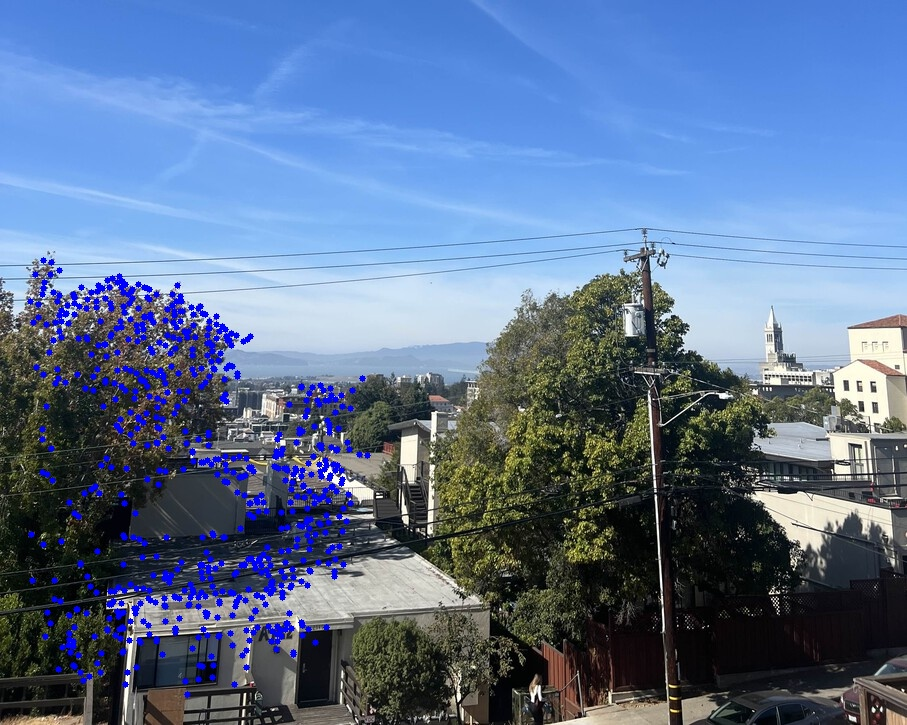
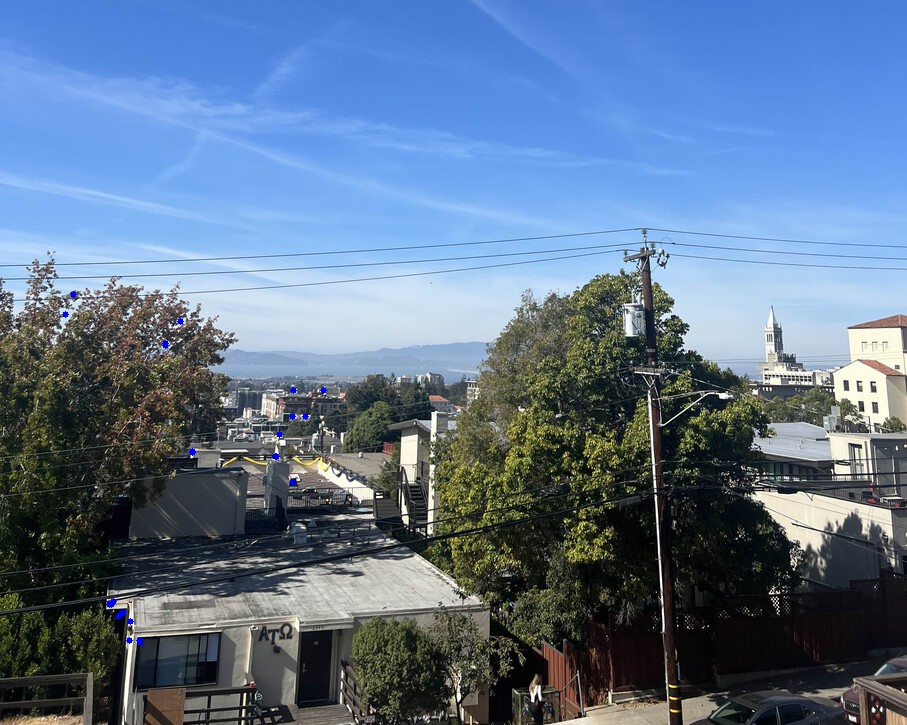
finished the project

diff --git a/4/index.html b/4/index.html
@@ -8,10 +8,12 @@
 </head>
 <body>
     <div class="container">
-        <h1>Project 4: Image Warping and Mosaicing</h1>
+        <h1>Project 4: [Auto] Stitching Photo Mosaics</h1>
         <p>This project focuses on image warping and mosaicing by creating a mosaic of two or more photographs through registration, projective warping, resampling, and compositing. The following steps were followed to achieve this:</p>
 
-        <h2>Part 1: Shooting and Digitizing Pictures</h2>
+        <h2>Part 4A: Image Warping and Mosaicing</h2>
+
+        <h3>Part 1: Shooting and Digitizing Pictures</h3>
         <p>I captured multiple images of Roaster's Coffee Pack, the outside of my house, and my desk, ensuring significant overlap between the images to facilitate mosaicing. Below are some of the original images used for this project:</p>
         <div class="gallery">
             <div class="image-card">
@@ -58,7 +60,7 @@
             </div>
         </div>
 
-        <h2>Part 2: Recovering Homographies</h2>
+        <h3>Part 2: Recovering Homographies</h3>
         <p>Next, I selected corresponding points between the two images. Using these points, I computed the homography matrix to warp one image onto the other. Below are the images with the corresponding points highlighted:</p>
         <div class="gallery">
             <div class="image-card">
@@ -75,7 +77,7 @@
             </div>
         </div>
 
-        <h2>Part 3 & 4: Warping and Rectification the Images</h2>
+        <h3>Part 3 & 4: Warping and Rectification the Images</h3>
         <p>Using the homography matrix, I warped both images to align them.
             Before blending, I performed rectification by transforming one of the images to ensure alignment. The images below show the warping and rectification process:</p>
         <div class="gallery">
@@ -109,7 +111,7 @@
             </div>
         </div>
 
-        <h2>Part 5: Blending into a Mosaic</h2>
+        <h3>Part 5: Blending into a Mosaic</h3>
         <p>Finally, I blended the images together using feathering and weighted averaging to produce the mosaic. The result is displayed below:</p>
         <div class="gallery">
             <div class="image-card">
@@ -215,9 +217,170 @@
                 </div>
             </div>
         </div>
+        <h2>Part 4B: Feature Detection, Description, and Matching</h2>
+
+        <h3>Steps 1-3: ANMS, Feature Descriptor Extraction, and Feature Matching</h3>
+        <ol>
+            <li><strong>Step 1: Adaptive Non-Maximal Suppression (ANMS)</strong>
+                <p>
+                    To refine the Harris corners detected in each image, I implemented Adaptive Non-Maximal Suppression (ANMS) based on Section 3 of the paper “Multi-Image Matching using Multi-Scale Oriented Patches” by Brown et al. ANMS selects high-confidence features while ensuring they are spatially distributed, which is critical for effective matching.
+                    <br>The ANMS process involves:
+                    <ul>
+                        <li>Sorting corners by their Harris response strength.</li>
+                        <li>Assigning a suppression radius to each corner, representing the distance to the nearest stronger corner based on a robustness threshold (`robust_thresh=0.9`).</li>
+                        <li>Selecting the top 1000 corners with the largest radii, ensuring spatial spread across the image.</li>
+                    </ul>
+                    Below is a figure showing the ANMS-selected corners overlaid on the image.
+                </p>
+
+                <div class="image-row">
+                    <div class="image-card">
+                        <img src="./media/ladder_left_harris.jpg" alt="Harris Corners">
+                        <div class="description">Harris Corners</div>
+                    </div>
+
+                    <div class="image-card">
+                        <img src="./media/ladder_left_anms.jpg" alt="ANMS-selected Corners">
+                        <div class="description">Selected Corners after ANMS</div>
+                    </div>
+                </div>
+
+            </li>
+
+            <li><strong>Step 2: Feature Descriptor Extraction</strong>
+                <p>
+                    For each corner selected by ANMS, I extracted a feature descriptor by taking an 8x8 patch from a larger 40x40 window around each corner. This larger window allows for downsampling, which produces a blurred, stable descriptor and improves robustness.
+                    <br>The descriptors are bias/gain-normalized to have zero mean and unit variance, which makes them more resistant to lighting variations. Although rotation invariance was not included for simplicity, the 8x8 patches provide effective feature representation for matching.
+                </p>
+                <div class="image-row">
+                    <div class="image-card">
+                        <img src="./media/ladder_left_anms.jpg" alt="ANMS-selected Corners">
+                        <div class="description">Selected Corners after ANMS</div>
+                    </div>
+
+                    <div class="image-column">
+                        <div class="image-card">
+                            <img class="enlarged-image" src="./media/ladder_left_window.jpg" alt="40x40 Window">
+                            <div class="description">40x40 Window</div>
+                        </div>
+
+                        <div class="image-card">
+                            <img class="enlarged-image" src="./media/ladder_left_detector.jpg" alt="8x8 Detector for Feature Descriptor">
+                            <div class="description">8x8 Descriptor</div>
+                        </div>
+                    </div>
+                </div>
+            </li>
+
+            <li><strong>Step 3: Feature Matching using Lowe’s Ratio Test</strong>
+                <p>
+                    Using the feature descriptors from Step 2, I matched features between images by applying Lowe's ratio test. For each descriptor in the first image, I identified the two closest descriptors in the second image. A match is retained if the ratio of distances between the closest and second-closest neighbors is below 0.8. This threshold helps filter out ambiguous matches, as incorrect matches generally have closer distances to multiple descriptors.
+                    <br>This step significantly reduces mismatches, as demonstrated in the figure below showing matched features between images.
+                </p>
+                <div class="image-card-centered">
+                    <img src="./media/ladder_left_ladder_right_feature_matching.jpg" alt="Matched Features">
+                    <div class="description">Matched Features after Lowe’s Ratio Test</div>
+                </div>
+            </li>
+        </ol>
+        <h3>Step 4: Robust Homography Estimation with RANSAC</h3>
+        <p>
+            To achieve accurate alignment between images based on matched features, I implemented a 4-point RANSAC (Random Sample Consensus) algorithm to compute a robust homography estimate.
+            <br><br>
+            RANSAC iteratively selects four matched point pairs at random and computes a candidate homography matrix using these four points. This process ensures the homography estimate remains unaffected by potential outliers.
+        </p>
+        <p>
+            Using these four correspondences, I compute the homography matrix by setting up a system of linear equations based on the Direct Linear Transformation (DLT) algorithm. Given points (x, y) in the source image and corresponding points (x', y') in the destination image, we form equations to solve for the transformation matrix:
+        </p>
+        <ul>
+            <li>For each pair of corresponding points (x, y) to (x', y'), two equations are added to an equation matrix.</li>
+            <li>The system is then solved using Singular Value Decomposition (SVD), ensuring a minimal-error estimate.</li>
+        </ul>
+        <p>
+            Once the homography is computed, it’s evaluated based on the number of inliers, which are the matches where the transformed point falls within a specified distance threshold (e.g., 200 pixels). By iterating this process 1000 times, RANSAC identifies the homography matrix with the highest inlier count.
+        </p>
+        <p>
+            This final homography with the most inliers effectively aligns the images by filtering out outlier matches, which is essential for seamless mosaic creation. The figure below demonstrates inlier matches identified after RANSAC, confirming the robust alignment achieved.
+        </p>
+
+        <div class="image-card-centered">
+            <img class="small-mosaic" src="./media/ladder_left_ladder_right_ransac.jpg" alt="RANSAC Inliers">
+            <div class="description">Inliers Identified by RANSAC (69 correspondence)</div>
+        </div>
+
+        <p>Here are more examples:</p>
+        <div class="gallery">
+            <div class="image-card">
+                <img src="./data/pcb_left.jpg" alt="Blended Image Mosaic">
+                <div class="description">
+                    <strong>Left side of PCB</strong>
+                </div>
+            </div>
+
+            <div class="image-card">
+                <img src="./data/pcb_right.jpg" alt="Blended Image Mosaic">
+                <div class="description">
+                    <strong>Right side of PCB</strong>
+                </div>
+            </div>
+        </div>
+
+        <div class="gallery">
+            <div class="image-card">
+                <img src="./media/pcb_left_pcb_right_feature_matching.jpg" alt="Blended Image Mosaic">
+                <div class="description">
+                    <strong>Feature Matching the PCB</strong>
+                </div>
+            </div>
+
+            <div class="image-card">
+                <img src="./media/pcb_left_pcb_right_blended_mosaic.jpg" alt="Blended Image Mosaic">
+                <div class="description">
+                    <strong>Mosaic image of the PCB</strong>
+                </div>
+            </div>
+        </div>
+
+        <div class="gallery">
+            <div class="image-card">
+                <img src="./data/stairs_left.jpg" alt="Blended Image Mosaic">
+                <div class="description">
+                    <strong>Left side of stairs</strong>
+                </div>
+            </div>
+
+            <div class="image-card">
+                <img src="./data/stairs_right.jpg" alt="Blended Image Mosaic">
+                <div class="description">
+                    <strong>Right side of stairs</strong>
+                </div>
+            </div>
+        </div>
+
+        <div class="gallery">
+            <div class="image-card">
+                <img src="./media/stairs_left_stairs_right_feature_matching.jpg" alt="Blended Image Mosaic">
+                <div class="description">
+                    <strong>Feature Matching the stairs</strong>
+                </div>
+            </div>
+
+            <div class="image-card">
+                <img src="./media/stairs_left_stairs_right_blended_mosaic.jpg" alt="Blended Image Mosaic">
+                <div class="description">
+                    <strong>Mosaic stairs</strong>
+                </div>
+            </div>
+        </div>
+
+        <h3>Reflection: What I Learned</h3>
+        <p>
+            The most exciting part was implementing the Adaptive Non-Maximal Suppression and seeing how it improves feature spread, making matches more reliable. Also, Lowe’s ratio test for feature matching was a cool tool that helped isolate accurate feature correspondences.
+        </p>
         <footer>
-            <p>Project 4: Image Warping and Mosaicing &copy; 2024</p>
+            <p>Project 4: [Auto] Stitching Photo Mosaics &copy; 2024</p>
         </footer>
+
     </div>
 
 </body>

diff --git a/4/style.css b/4/style.css
@@ -1,3 +1,4 @@
+/* Basic Body and Typography */
 body {
     font-family: Arial, sans-serif;
     background-color: #f4f4f9;
@@ -17,12 +18,25 @@ p {
     line-height: 1.6;
 }
 
+/* Container */
+.container {
+    max-width: 1200px;
+    margin: 0 auto;
+    padding: 20px;
+}
+
+/* Gallery for Left-Right Image Layouts */
 .gallery {
     display: flex;
     flex-wrap: wrap;
     justify-content: center;
     gap: 20px;
     padding: 20px;
+}
+
+.gallery .image-card {
+    text-align: center;
+    max-width: 300px;
 }
 
 .gallery img {
@@ -37,26 +51,45 @@ p {
     transform: scale(1.05);
 }
 
-.image-card {
-    text-align: center;
-    max-width: 300px;
-}
-
-.description {
-    margin-top: 10px;
-    font-size: 14px;
-    color: #555;
-}
-
-.container {
-    max-width: 1200px;
+/* Centered Images for Feature Matching Steps */
+.image-card-centered {
+    max-width: 80%;
     margin: 0 auto;
-    padding: 20px;
+    text-align: center;
 }
 
+/* Image-Row for Side-by-Side Alignment */
+.image-row {
+    display: flex;
+    justify-content: center;
+    gap: 20px;
+}
+
+.image-row .image-card {
+    max-width: 45%;
+}
+
+/* Image-Column for Stacking Two Images Vertically */
+.image-column {
+    display: flex;
+    flex-direction: column;
+    gap: 15px;
+}
+
+.image-column .image-card {
+    max-width: 100%;
+}
+
+/* Footer */
 footer {
     text-align: center;
     margin-top: 40px;
     font-size: 14px;
     color: #aaa;
+}
+
+.small-mosaic {
+    max-width: 400px; /* Adjust this value as needed */
+    width: 100%;
+    height: auto;
 }
